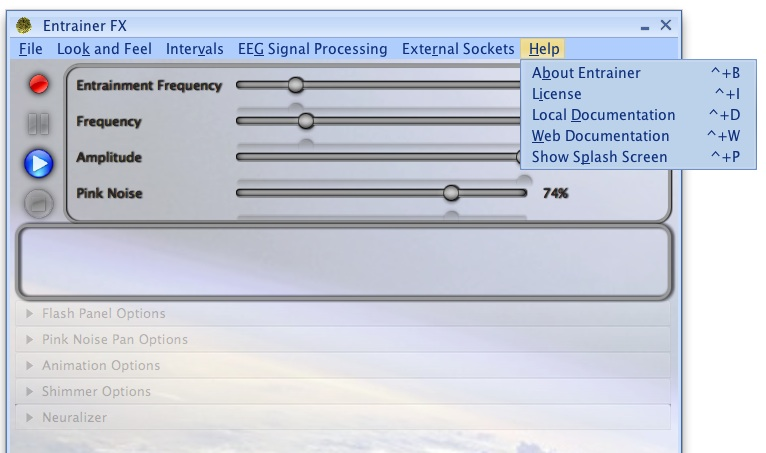
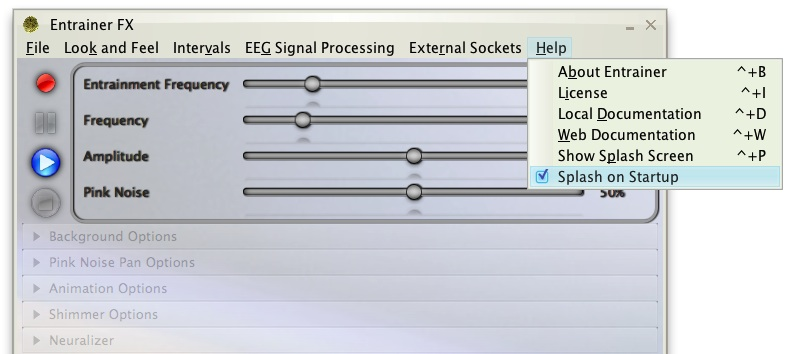
doc updated

diff --git a/EntrainerFX/doc/running.html b/EntrainerFX/doc/running.html
@@ -30,6 +30,7 @@
 		<ul title="Top Level Navigation bar">
 			<li><a href="http://sourceforge.net/projects/entrainer" title="Sourceforge Project Page">Project Page</a></li>
 			<li><a href="mailto:burton@users.sourceforge.net" title="Contact">Contact</a></li>
+			<li><a href="https://plus.google.com/112157326543408665325" rel="publisher">Entrainer on Google+</a></li>
 		</ul>
 	</div>
   	
@@ -40,14 +41,35 @@
 	<div id="content">
 	
   	<h1>Executing</h1>
-  	<p>Double click the <b>Entrainer.jar</b> file in the Entrainer installation directory, or start the application
+  	<p>Double click the <b>EntrainerFX.jar</b> file in the Entrainer installation directory, or start the application
   	as per the instructions on the <a href="index.html" title="Index">Index</a> page.
   	After the splash screen disappears, the application starts up.
+    <center><img alt="Started Application" src="images/EntrainerFX.jpg"/></center>     
   	
   	<h1>Controls</h1>
   	<p>The following describes the controls that are available to the user.<br/><br/>
+  	
+  	<center><img alt="Background Options" src="images/EntrainerBackground.jpg"/></center>
+  	<h2>Background Control (New in 5.1.0)</h2>
+  	<p>As the last major new feature prior to full JavaFX conversion I've implemented full
+  	control of the background images or colours.  Should the 'Dynamic' radio button be pressed
+  	a single click of the image directory field allows the user to choose any directory containing image
+  	files (jpeg, bmp, gif & png files).  The directory is recursively scanned and the images are randomly 
+  	changed using the duration and transition values selected.</p>
+  	
+  	<p>Should the 'Static' radio button be selected the user is able to single click the static image field and
+   	choose a single picture for display.  Should the 'Lock Image' checkbox be selected the image can only be changed
+   	by clicking the static image field.  If the checkbox is not selected a new image can be chosen when the 'Dynamic'
+   	radio button is selected and the background is cycling through random images - see an image you like, then click 
+   	the 'Static' radio button before it transitions to the next image.</p>
+   	
+   	<p>Should the 'No Image' radio button be selected the user is able to choose a static colour for the background 
+   	via the colour picker control, or choose random background colours during play by selecting the 'Psychedelic' 
+   	checkbox.</p>
+   	
+   	<p>In all 3 modes selecting the 'Flash Background' checkbox will cause the background to flash in time with the
+   	chosen entrainment frequency</p>
   	  	
-    <center><img alt="Started Application" src="images/EntrainerFX.jpg"/></center>     
     <h2>Shimmer Effect (New in 1.1.5 Final)</h2>
     <p>The user can choose to place a shimmer effect over top of the application while it is running.
     Colours and transparency values gently shift over time, providing a hypnotic oil-on-water effect.</p>
@@ -77,12 +99,6 @@
     <center><img alt="Custom Interval" src="images/CustomInterval.jpg"/></center><br>    
     
     <h2>Program Control</h2>
-  	<h3>Flash Colours</h3>
-    <center><img alt="Flash Panel Options" src="images/FlashPanelOptions.jpg"/></center><br>
-  	<p>When selected, the application's flash panel will flash at the specified entrainment frequency
-  	when the 'Play' button has been pressed.
-  	<h3>Psychedelic</h3><p>When selected, the colour used to flash the message panel will randomly change.
-  	<h3>Flash Background</h3><p>When selected, the opacity of the background image is changed in time with the chosen entrainment frequency.
   	<h3>Entrainment Frequency</h3><p>This slider controls the difference in frequencies between the right and left
   	stereo channels.
   	<h3>Frequency</h3><p>This slider controls the base frequency.  The actual frequency is of little importance to 
@@ -113,7 +129,9 @@
     
     <h2>The Help Menu</h2>
     <p>This menu displays the 'About' dialog, an entrainment introduction and the LICENSE.txt
-    file included with the installation.<br><br>
+    file included with the installation.  Access to local and web documentation for EntrainerFX
+    is available and in version 5.1.0 a checkbox item exists which allows enabling/disabling of the
+    splash screen on startup.<br><br>
     <center><img alt="Help Menu" src="images/HelpMenu.jpg"/></center><br>
 	
 	</div>

diff --git a/EntrainerFX/doc/installation.html b/EntrainerFX/doc/installation.html
@@ -30,6 +30,7 @@
 		<ul title="Top Level Navigation bar">
 			<li><a href="http://sourceforge.net/projects/entrainer" title="Sourceforge Project Page">Project Page</a></li>
 			<li><a href="mailto:burton@users.sourceforge.net" title="Contact">Contact</a></li>
+			<li><a href="https://plus.google.com/112157326543408665325" rel="publisher">Entrainer on Google+</a></li>
 		</ul>
 	</div>
   	
@@ -40,9 +41,11 @@
 	<div id="content">
 	
   	<p>The Entrainer installation is an executable jar file created by <a href="http://www.izforge.com">IzPack</a>,
-  	named <b>EntrainerFX[x]Setup.jar</b>, where '[x]' is the release identifier, and can be downloaded from
-  	<a href="https://sourceforge.net/projects/entrainer">the Entrainer SourceForge project page</a>.  
-  	Double clicking this file	will start the following installation process.
+  	named <b>EntrainerFX-[version]-installer.jar</b> and can be downloaded from
+  	<a href="https://sourceforge.net/projects/entrainer">the Entrainer SourceForge project page</a>.  Note that 
+  	version 5.1.0 of EntrainerFX should not be saved over top of any previous installations; it should be saved
+  	to a new directory (and one without any spaces in the names).
+  	Double clicking this file will start the following installation process.
   	
     <h2>The Introduction Screen</h2>
     <p>Click 'Next' to continue.<br><br>
@@ -60,17 +63,14 @@
     <center><img alt="LICENSE Screen" src="images/Install3.png"/></center>
     
     <h2>The Installation Directory Screen</h2>
-    <p>Choose your installation directory.  The default is whereever you've 
-    opened up EntrainerRelease[x]Setup.jar;
-    change to any directory of your preference with one caveat: note that the latest Java 7 releases
-    have a bug and the directories where EntrainerFX is installed cannot have spaces in the names.
+    <p>Choose your installation directory.  The default is your user's home directory;
+    change to any directory of your preference with one caveat: <b>note that the latest Java 8 releases
+    have a bug and the directories where EntrainerFX is installed cannot have spaces in the names</b>.
     When selected click 'Next' to continue.<br><br>
     <center><img alt="Select Installation Path Screen" src="images/Install4.png"/></center>
     
     <h2>The Install Packs Screen</h2>
-    <p>You can optionally choose not to install the JavaDoc (code documentation) 
-    and not to install
-    the Java source, as these are not necessary components to run Entrainer.  When you've chosen 
+    <p>When you've chosen 
     the components to install click 'Next'.<br><br>
     <center><img alt="Install Components Screen" src="images/Install5.png"/></center>
     

diff --git a/EntrainerFX/doc/entrainerfx.html b/EntrainerFX/doc/entrainerfx.html
@@ -30,6 +30,7 @@
 		<ul title="Top Level Navigation bar">
 			<li><a href="http://sourceforge.net/projects/entrainer" title="Sourceforge Project Page">Project Page</a></li>
 			<li><a href="mailto:burton@users.sourceforge.net" title="Contact">Contact</a></li>
+			<li><a href="https://plus.google.com/112157326543408665325" rel="publisher">Entrainer on Google+</a></li>
 		</ul>
 	</div>
   	
@@ -44,19 +45,6 @@
     	<h1>Entrainer FX Lite</h1>
     		<p>A stripped down version of Entrainer FX - <a href="entrainerfx-lite.html" title="EntrainerFX Lite">EntrainerFX Lite</a> - is available for use on the web.
     		A work in progress.</p>
-	
-		<h1>Entrainer FX Features - CSS control of the GUI</h1>
-			<p>The borders, the font, the colours and most strikingly the new background picture are all controlled by JavaFX's ability
-			to be configured via CSS.  This file resides as <b>EntrainerFX/css/entrainer.css</b> and is editable with any good text editor.
-			Those who do not know CSS may only wish to change the background picture.  This is accomplished by copying the picture to the css directory,
-			modifying the following in the entrainer.css file and restarting Entrainer:</p>
-			
-			<p/>
-			<code>
-#background-image {<br/>
-				-fx-image: url(<b>"my-new-picture.jpg"</b>);<br/>
-}
-			</code>
 			
 			<p>The images included with the Entrainer distribution are from <a href="http://www.freenaturepictures.com/beach-sunset-pictures.php">Free</a>
 			<a href="http://www.freenaturepictures.com/lake-sunset-pictures.php">Nature</a> Pictures and from 
@@ -70,8 +58,9 @@
     <center><img alt="Titled Panes" src="images/TitledPanes.jpg"/></center>     
 		<h1>Entrainer FX Features - Titled Panes</h1>
 			<p>This paradigm is one I had wished Swing supported when I initially coded Entrainer.  Clicking on the appropriate
-			bar causes the titled pane to expand, revealing controls for pink noise panning, flashing, animations and shimmer effects.  Clicking the
-			bar again causes the titled pane to collapse and become semi-translucent.  This replaces the need in Swing for pop up dialogs.</p><br></br>
+			bar causes the titled pane to expand, revealing controls for pink noise panning, changing the background, animations 
+			and shimmer effects.  Clicking the bar again causes the titled pane to collapse and become semi-translucent.  
+			This replaces the need in Swing for pop up dialogs.</p><br></br>
 
     <center><img alt="Saturn FX" src="images/SaturnFX.jpg"/></center>     
 		<h1>Entrainer FX Features - Pure Java JSyn</h1>

diff --git a/EntrainerFX/doc/index.html b/EntrainerFX/doc/index.html
@@ -48,7 +48,8 @@
 			license - it is free and open source.  It can be obtained from the 
 			<a href="http://sourceforge.net/projects/entrainer">Entrainer Sourceforge project page</a> and the latest version is 
 			<a href="http://sourceforge.net/projects/entrainer/files/entrainer">EntrainerFX 5.1.0</a>, released on March 14, 2015,
-			requiring a minimum of Java 8 (1.8.0_40) to run.  
+			requiring a minimum of Java 8 (1.8.0_40) to run.  Version 5.1.0 will be the last feature release prior to replacing all
+			Java Swing code with JavaFX controls. 
 			Screenshots of older versions of Entrainer in action are
 			<a href="running.html">included</a> <a href="animations.html">throughout</a> 
 			<a href="loading.html">this</a> <a href="lookAndFeel.html">documentation</a>.
@@ -113,7 +114,7 @@
 			the distribution - the final impetus for this new version of Entrainer.</p>
 			
 			<p>As Entrainer now uses the latest JavaFX, it now requires the latest version of the JRE - at least
-			<a href="http://java.oracle.com/javase/downloads/">JRE 1.8.0</a>.  It will not run on any earlier versions of Java.</p>
+			<a href="http://java.oracle.com/javase/downloads/">JRE 1.8.0_40</a>.  It will not run on any earlier versions of Java.</p>
 	
 		<h1>About Entrainment</h1>
 			<p>Brain wave entrainment is about stimulating the brain to resonate at a desired frequency.  The two techniques

diff --git a/EntrainerFX/doc/lookAndFeel.html b/EntrainerFX/doc/lookAndFeel.html
@@ -30,6 +30,7 @@
 		<ul title="Top Level Navigation bar">
 			<li><a href="http://sourceforge.net/projects/entrainer" title="Sourceforge Project Page">Project Page</a></li>
 			<li><a href="mailto:burton@users.sourceforge.net" title="Contact">Contact</a></li>
+			<li><a href="https://plus.google.com/112157326543408665325" rel="publisher">Entrainer on Google+</a></li>
 		</ul>
 	</div>
   	
@@ -41,10 +42,10 @@
     
     <p>Entrainer has a dynamic Swing look and feel architecture, as demonstrated in the previous pages.  This is
     in addition to the ability to change the JavaFX controls via <a href="entrainerfx.html">CSS</a>.
-    The default look and feel is 'Substance Raven Graphite Glass', and can be changed to the user's preference.
+    The default look and feel is 'Substance Creme', and can be changed to the user's preference.
     
     <h2>The 'Substance Raven Graphite Glass' Look and Feel</h2>
-    <center><img alt="Substance Graphite LnF" src="images/PinkNoiseOptions.png"></center>
+    <center><img alt="Substance Graphite LnF" src="images/EntrainerThinkGearMenu.png"></center>
 
     <h2>The 'Napkin' Look and Feel</h2>
     <center><img alt="Napkin LnF" src="images/NapkinLnF.jpg"></center>

diff --git a/EntrainerFX/doc/animations.html b/EntrainerFX/doc/animations.html
@@ -30,6 +30,7 @@
 		<ul title="Top Level Navigation bar">
 			<li><a href="http://sourceforge.net/projects/entrainer" title="Sourceforge Project Page">Project Page</a></li>
 			<li><a href="mailto:burton@users.sourceforge.net" title="Contact">Contact</a></li>
+			<li><a href="https://plus.google.com/112157326543408665325" rel="publisher">Entrainer on Google+</a></li>
 		</ul>
 	</div>
   	

diff --git a/EntrainerFX/doc/editing.html b/EntrainerFX/doc/editing.html
@@ -30,6 +30,7 @@
 		<ul title="Top Level Navigation bar">
 			<li><a href="http://sourceforge.net/projects/entrainer" title="Sourceforge Project Page">Project Page</a></li>
 			<li><a href="mailto:burton@users.sourceforge.net" title="Contact">Contact</a></li>
+			<li><a href="https://plus.google.com/112157326543408665325" rel="publisher">Entrainer on Google+</a></li>
 		</ul>
 	</div>
   	

diff --git a/EntrainerFX/doc/loading.html b/EntrainerFX/doc/loading.html
@@ -30,6 +30,7 @@
 		<ul title="Top Level Navigation bar">
 			<li><a href="http://sourceforge.net/projects/entrainer" title="Sourceforge Project Page">Project Page</a></li>
 			<li><a href="mailto:burton@users.sourceforge.net" title="Contact">Contact</a></li>
+			<li><a href="https://plus.google.com/112157326543408665325" rel="publisher">Entrainer on Google+</a></li>
 		</ul>
 	</div>
   	

diff --git a/EntrainerFX/doc/neuralizer.html b/EntrainerFX/doc/neuralizer.html
@@ -30,6 +30,7 @@
 		<ul title="Top Level Navigation bar">
 			<li><a href="http://sourceforge.net/projects/entrainer" title="Sourceforge Project Page">Project Page</a></li>
 			<li><a href="mailto:burton@users.sourceforge.net" title="Contact">Contact</a></li>
+			<li><a href="https://plus.google.com/112157326543408665325" rel="publisher">Entrainer on Google+</a></li>
 		</ul>
 	</div>
   	

diff --git a/EntrainerFX/doc/recording.html b/EntrainerFX/doc/recording.html
@@ -30,6 +30,7 @@
 		<ul title="Top Level Navigation bar">
 			<li><a href="http://sourceforge.net/projects/entrainer" title="Sourceforge Project Page">Project Page</a></li>
 			<li><a href="mailto:burton@users.sourceforge.net" title="Contact">Contact</a></li>
+			<li><a href="https://plus.google.com/112157326543408665325" rel="publisher">Entrainer on Google+</a></li>
 		</ul>
 	</div>
   	

diff --git a/EntrainerFX/doc/sockets.html b/EntrainerFX/doc/sockets.html
@@ -30,6 +30,7 @@
 		<ul title="Top Level Navigation bar">
 			<li><a href="http://sourceforge.net/projects/entrainer" title="Sourceforge Project Page">Project Page</a></li>
 			<li><a href="mailto:burton@users.sourceforge.net" title="Contact">Contact</a></li>
+			<li><a href="https://plus.google.com/112157326543408665325" rel="publisher">Entrainer on Google+</a></li>
 		</ul>
 	</div>
   	
